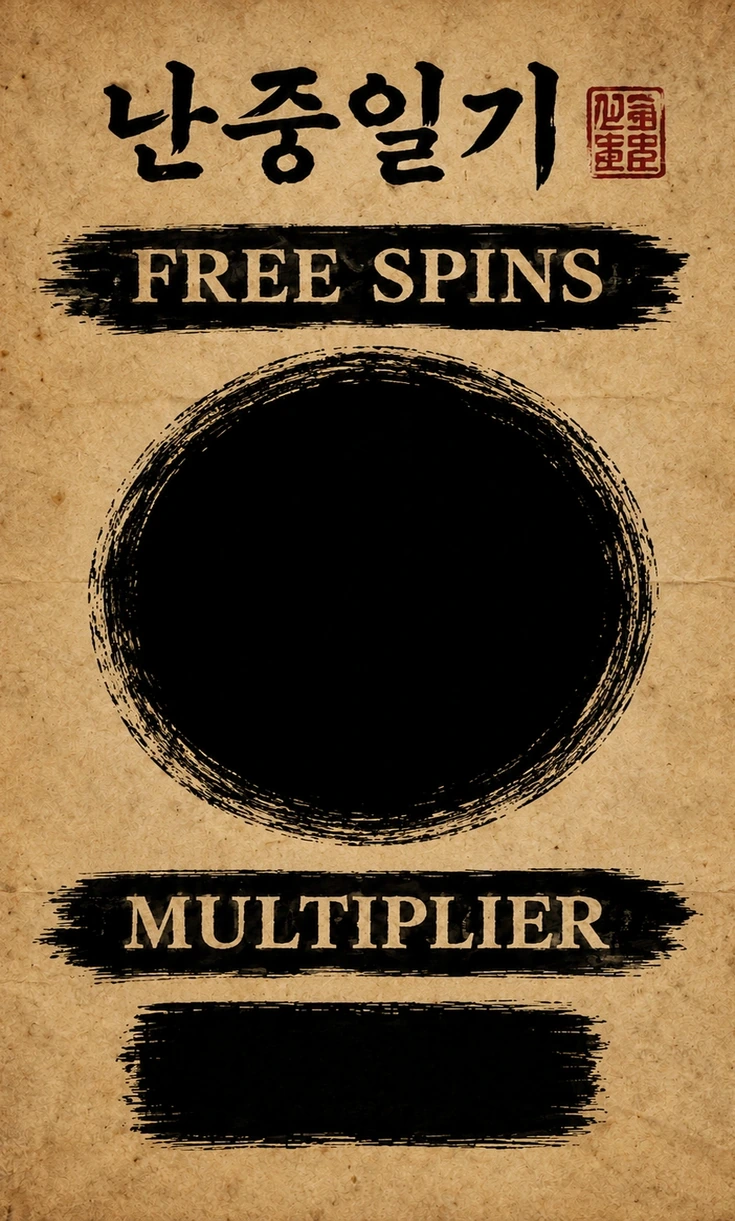
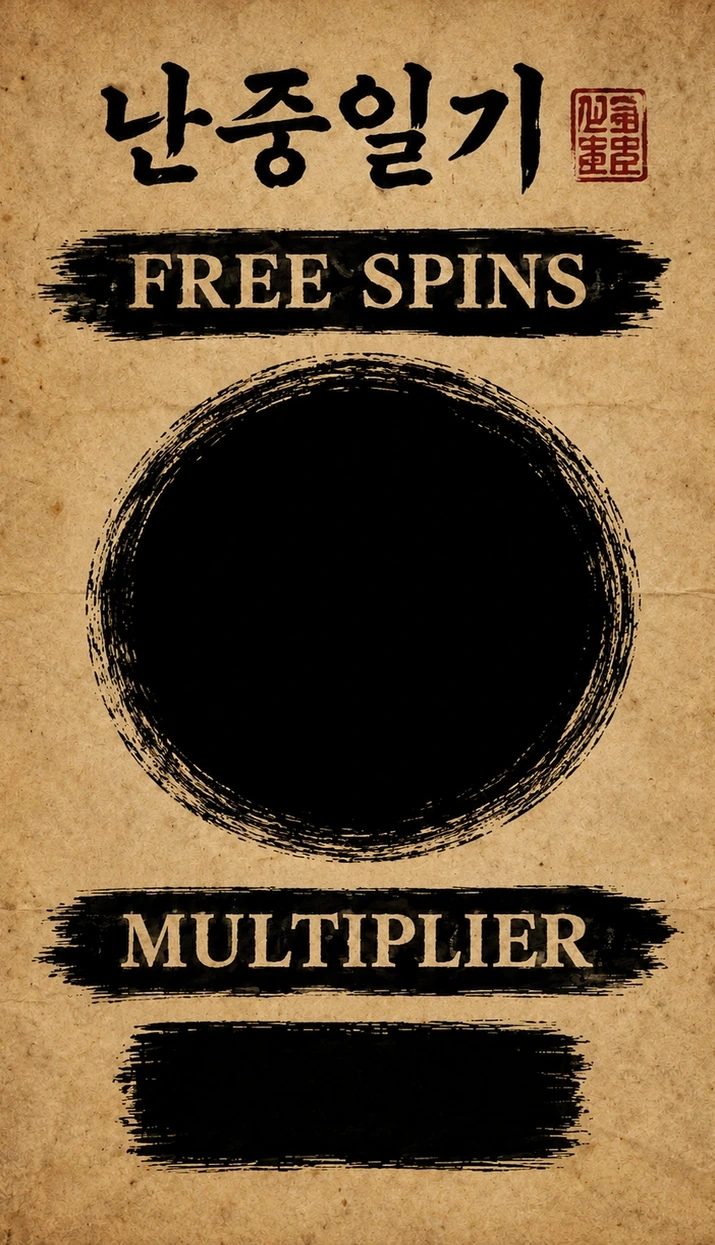
fix: 이순신 모바일 3분할 디테일 6건 — 대표님 실기 피드백 반영
실기 확인에서 지적된 여섯 가지를 잡았다.

- 하단 버튼이 칸을 넘치던 것: 고정 44px 을 걷어내고 칸 크기에 종속시켰다
  (칸 E 는 폭 4.54% 라 44px 이 칸 밖으로 삐져나왔다. 터치 최소치는 칸이 확보한다)
- SPIN 용 장식과 릴 프레임 하단 꽃이 어긋나던 것: HUD 띠를 재조판할 때
  좌우 확장 배율을 비대칭(칸B 1.841 / 나머지 1.731)으로 주어 SPIN 빈 구간
  중심을 정확히 50% 에 맞췄다 (기존 49.39%)
- 패널 상단 용머리·꽃 장식이 잘리던 것: 여백 트림 임계를 0.15 → 0.02 로
  낮췄다 (tactic 31px · side_frame 11px 손실이었다)
- 난중일기 속지가 액자를 못 채우던 것: 개구부보다 2% 크게 깔아 액자 뒤로 넣었다
- 좌우 패널을 5% 줄여 세로 중앙에 두고 프레임과 6px 띄웠다
- 릴 프레임 상단이 찌그러지던 것: 상단 압축을 0.685 → 0.85배로 완화했다.
  줄어든 개구부는 HUD 띠를 9.63 → 10.4:1 로 얇게 해 되찾았다 (심볼 13.22→13.09%)

WEB 화면·에셋, RTP 127.93%, 라인 RTP 80.91%, 확률·배당·릴 스트립 변경 0건.

검증 355개 통과 · 코드 위생 H1~H7 0건
Playwright 780×360 · 844×390 · 874×402 · 915×412 · 932×430 + WEB 1920×1080 회귀 통과

diff --git a/yisunsin/css/mobile.css b/yisunsin/css/mobile.css
@@ -6,7 +6,7 @@
         │  좌    │   릴 프레임       │   우   │  상단 = 100dvh − 띠
         │ 전략   │  현판 + 개구부     │ 난중일기│
         ├────────┴──────────────────┴────────┤
-        │            HUD 띠 100%             │  띠 = 폭 ÷ 9.63
+        │            HUD 띠 100%             │  띠 = 폭 ÷ 10.4
         └────────────────────────────────────┘
 
    🔴 릴 격자는 WEB 과 같은 872×664 **정사각** 좌표다 (renderlayout.js).
@@ -23,17 +23,20 @@
     --vw-safe: calc(100vw - var(--sa-l) - var(--sa-r));
 
     /* 띠 비율이 높이를 정하고, 남는 세로가 통째로 상단 영역이 된다 */
-    --m-hud-h: calc(var(--vw-safe) / 9.63);
+    --m-hud-h: calc(var(--vw-safe) / 10.4);
     --m-top-h: calc(100dvh - var(--m-hud-h));
 
-    /* 프레임 그림 1266×833 · 유효 높이 778 (아래 55px 은 HUD 위로 걸치는 장식) */
-    --m-frame-w: calc(var(--m-top-h) * 1266 / 778);
-    --m-frame-h: calc(var(--m-top-h) * 833 / 778);
+    /* 프레임 그림 1266×857 · 유효 높이 802 (아래 55px 은 HUD 위로 걸치는 장식)
+       🔴 상단 압축을 0.685 → 0.85배로 완화해 현판 찌그러짐을 풀었다 (2026-09-08) */
+    --m-frame-w: calc(var(--m-top-h) * 1266 / 802);
+    --m-frame-h: calc(var(--m-top-h) * 857 / 802);
     --m-frame-l: calc(var(--sa-l) + (var(--vw-safe) - var(--m-frame-w)) / 2);
 
-    /* 좌우 패널 — 프레임에 8px 겹쳐 렌더링 반올림 실틈을 없앤다 */
-    --m-side-w: calc((var(--vw-safe) - var(--m-frame-w)) / 2 + 8px);
-    --m-side-top: 6.5dvh;      /* 패널 상단이 프레임 금테 라인에 닿는 높이 */
+    /* 좌우 패널 — 프레임과 6px 띄우고 5% 줄여 세로 중앙에 놓는다 (대표님 지시) */
+    --m-side-gap: 6px;
+    --m-side-w: calc((var(--vw-safe) - var(--m-frame-w)) / 2 - var(--m-side-gap));
+    --m-side-h: calc(var(--m-top-h) * 0.95);
+    --m-side-top: calc((var(--m-top-h) - var(--m-side-h)) / 2);
   }
 
   html.is-touch,
@@ -91,17 +94,17 @@
      개구부 경계가 높이마다 들쭉날쭉해(판옥선·파도) 딱 맞추면 배경이 샌다. */
   html.is-touch .reel-panel::before {
     display: block;
-    inset: 6% 7.98% 3.96% 7.9%;
+    inset: 7% 7.98% 6.65% 7.9%;
     background: radial-gradient(ellipse at 50% 0%, rgba(11, 26, 42, 0.97), rgba(4, 10, 17, 1));
   }
 
-  /* 캔버스는 개구부 실측 좌표에 앉힌다 (프레임 원본 x160~1105 · y100~737) */
+  /* 캔버스는 개구부 실측 좌표에 앉힌다 (프레임 원본 x160~1105 · y124~761) */
   html.is-touch .reel-panel canvas {
     position: absolute;
     left: 12.64%;
-    top: 12%;
+    top: 14.47%;
     width: 74.64%;
-    height: 76.47%;
+    height: 74.33%;
     max-height: none;
     margin: 0;
     object-fit: contain;
@@ -109,17 +112,17 @@
   }
 
   /* ── JACKPOT 현판 — 프레임에 그려진 남색 판 실측 좌표 ───────────── */
-  /* 🔴 원본 1266×833 에서 빈 남색 판만 골라 잰 값 (2026-09-08 2차 실측).
-     1차에는 아래 금테 바까지 남색으로 세어 높이를 9.72% 로 잡았고, 그만큼
-     글자가 아래로 흘러 금테에 겹쳤다 (Playwright 932×430 실측).
-     실제 판은 y10~63 · x410~850 — **높이 6.48%** 뿐이다. */
+  /* 🔴 원본 1266×857 에서 빈 남색 판만 골라 잰 값 (2026-09-08 3차 실측).
+     1차에는 아래 금테 바까지 남색으로 세어 9.72% 로 잡았고 글자가 금테에 겹쳤다.
+     2차(6.48%)는 상단 압축이 0.685배이던 때의 값이다. 압축을 0.85배로 풀면서
+     판이 커져 **높이 7.93%** 가 됐다 — 판 크기는 압축률과 함께 움직인다. */
   html.is-touch .topbar.jackpot-bar {
     position: absolute;
     z-index: 8;
     left: calc(var(--m-frame-l) + var(--m-frame-w) * 0.3239);
-    top: calc(var(--m-frame-h) * 0.012);
-    width: calc(var(--m-frame-w) * 0.3483);
-    height: calc(var(--m-frame-h) * 0.0648);
+    top: calc(var(--m-frame-h) * 0.014);
+    width: calc(var(--m-frame-w) * 0.3507);
+    height: calc(var(--m-frame-h) * 0.0793);
     margin: 0;
     padding: 0;
     transform: none;
@@ -143,7 +146,7 @@
     gap: 0;
   }
 
-  /* 두 줄 합이 판 높이(6.48%)를 넘으면 금테를 침범한다 — 넉넉히 아래로 잡는다 */
+  /* 두 줄 합이 판 높이(7.93%)를 넘으면 금테를 침범한다 — 넉넉히 아래로 잡는다 */
   html.is-touch .jb-label {
     font-size: clamp(0.42rem, 1.75dvh, 0.62rem);
     line-height: 1;
@@ -163,7 +166,7 @@
     right: auto;
     top: var(--m-side-top);
     width: var(--m-side-w);
-    height: calc(var(--m-top-h) - var(--m-side-top));
+    height: var(--m-side-h);
     transform: none;
     z-index: 2;
   }
@@ -192,7 +195,7 @@
     right: var(--sa-r);
     top: var(--m-side-top);
     width: var(--m-side-w);
-    height: calc(var(--m-top-h) - var(--m-side-top));
+    height: var(--m-side-h);
     transform: none;
     z-index: 2;
     pointer-events: none;
@@ -215,24 +218,25 @@
     object-fit: fill;
   }
 
-  /* 모바일 액자 1073×1397 의 개구부 실측 x169~903 · y88~1308 */
+  /* 🔴 속지는 액자 개구부(1002×1417 중 701×1221)보다 **2% 크게** 깐다.
+     딱 맞추면 액자 안쪽 테두리와의 경계에 남색이 비친다 (대표님 지적). */
   html.is-touch .fp-paper {
-    left: 15.75%;
-    top: 6.3%;
-    width: 68.5%;
-    height: 87.4%;
+    left: 14.37%;
+    top: 6.14%;
+    width: 71.36%;
+    height: 87.86%;
   }
 
-  /* 속지 내부 좌표는 WEB 과 같다. 속지 폭이 80.64% → 68.5% 로 바뀐 만큼만 환산 */
+  /* 속지 내부 좌표는 WEB 과 같다. 속지 폭이 80.64% → 71.36% 로 바뀐 만큼만 환산 */
   html.is-touch .fp-num {
-    left: 50.39%;
-    top: 49.02%;
-    font-size: 24.4cqw;
+    left: 50.46%;
+    top: 49.09%;
+    font-size: 25.4cqw;
   }
 
   html.is-touch .fp-mult {
-    left: 49.71%;
-    top: 83.09%;
+    left: 49.74%;
+    top: 83.34%;
   }
 
   html.is-touch .fs-panel.idle .fp-mult { font-size: 5.5cqw; }
@@ -267,16 +271,19 @@
     pointer-events: auto;
   }
 
-  /* 칸 좌표 — 재조판 띠(2215×230) 실측. 세로는 원본 띠 값 그대로다. */
-  html.is-touch .cell-a { left: 3.16%;  top: 16.09%; width: 5.64%;  height: 66.96%; flex-direction: column; }
-  html.is-touch .cell-b { left: 11.29%; top: 23.91%; width: 24.92%; height: 53.48%; flex-direction: column; }
-  html.is-touch .cell-c { left: 62.57%; top: 17.83%; width: 27.45%; height: 26.96%; }
-  html.is-touch .cell-d { left: 62.57%; top: 53.48%; width: 27.45%; height: 27.39%; }
-  html.is-touch .cell-e { left: 91.83%; top: 16.09%; width: 4.92%;  height: 66.96%; flex-direction: column; }
+  /* 칸 좌표 — 재조판 띠(2392×230) 실측. 세로는 원본 띠 값 그대로다.
+     🔴 좌우 확장 배율을 비대칭(칸B 1.841 / 나머지 1.731)으로 주어 SPIN 빈 구간
+        중심을 **정확히 50%** 에 맞췄다. 균등 확장이면 49.39% 로 밀려 릴 프레임
+        하단 꽃과 SPIN 용 장식이 어긋난다 (대표님 지적 2026-09-08). */
+  html.is-touch .cell-a { left: 2.93%;  top: 16.09%; width: 5.23%;  height: 66.96%; flex-direction: column; }
+  html.is-touch .cell-b { left: 10.45%; top: 23.91%; width: 26.21%; height: 53.48%; flex-direction: column; }
+  html.is-touch .cell-c { left: 63.38%; top: 17.83%; width: 27.42%; height: 26.96%; }
+  html.is-touch .cell-d { left: 63.38%; top: 53.48%; width: 27.42%; height: 27.39%; }
+  html.is-touch .cell-e { left: 92.47%; top: 16.09%; width: 4.54%;  height: 66.96%; flex-direction: column; }
 
   html.is-touch #spin {
     position: absolute;
-    left: 49.39%;
+    left: 50%;
     top: 50%;
     width: auto;
     height: 111%;
@@ -289,10 +296,15 @@
 
   html.is-touch #spin:active:not(:disabled) { transform: translate(-50%, -50%) scale(0.95); }
 
+  /* 🔴 버튼 크기를 **칸에 종속**시킨다 (대표님 지적 2026-09-08).
+     고정 44px 을 걸어 두니 칸 E(폭 4.54%)처럼 좁은 칸에서 버튼이 칸 밖으로
+     삐져나왔다. 터치 최소치는 칸 자체(높이 = 띠의 66.96%)가 확보한다. */
   html.is-touch .controls .side .icon-btn,
   html.is-touch .controls .side .toggle {
-    min-width: 44px;
-    min-height: 44px;
+    min-width: 0;
+    min-height: 0;
+    width: 100%;
+    height: 46%;
     padding: 0;
   }
 
@@ -308,9 +320,12 @@
 
   html.is-touch .bet-group { gap: clamp(0.18rem, 1vw, 0.5rem); }
   html.is-touch .controls .side .bet-group button {
-    min-width: 44px;
-    min-height: 44px;
-    background-size: 36px 36px;
+    min-width: 0;
+    min-height: 0;
+    width: 22%;
+    height: auto;
+    aspect-ratio: 1;
+    background-size: 78% 78%;
   }
 
   /* 힌트는 띠 안에 산다 — 행으로 두면 그 높이가 그대로 릴에서 빠진다 */
